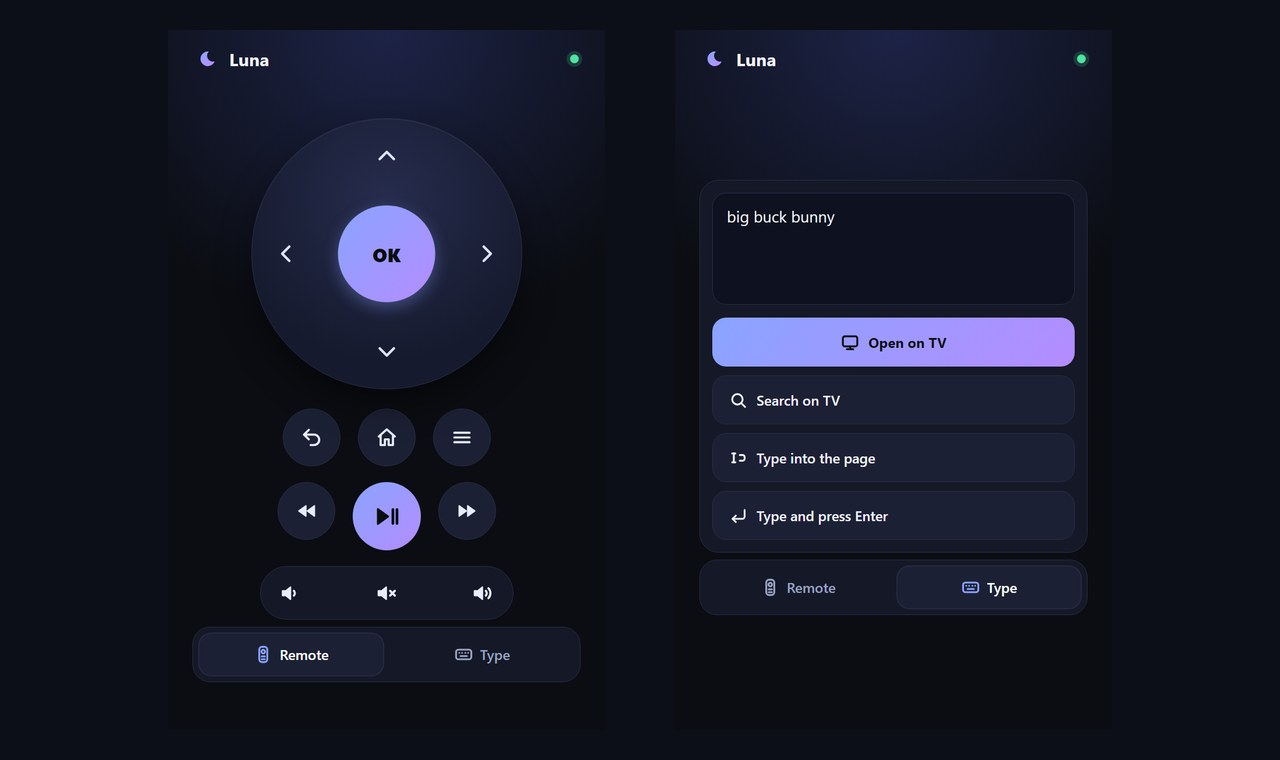
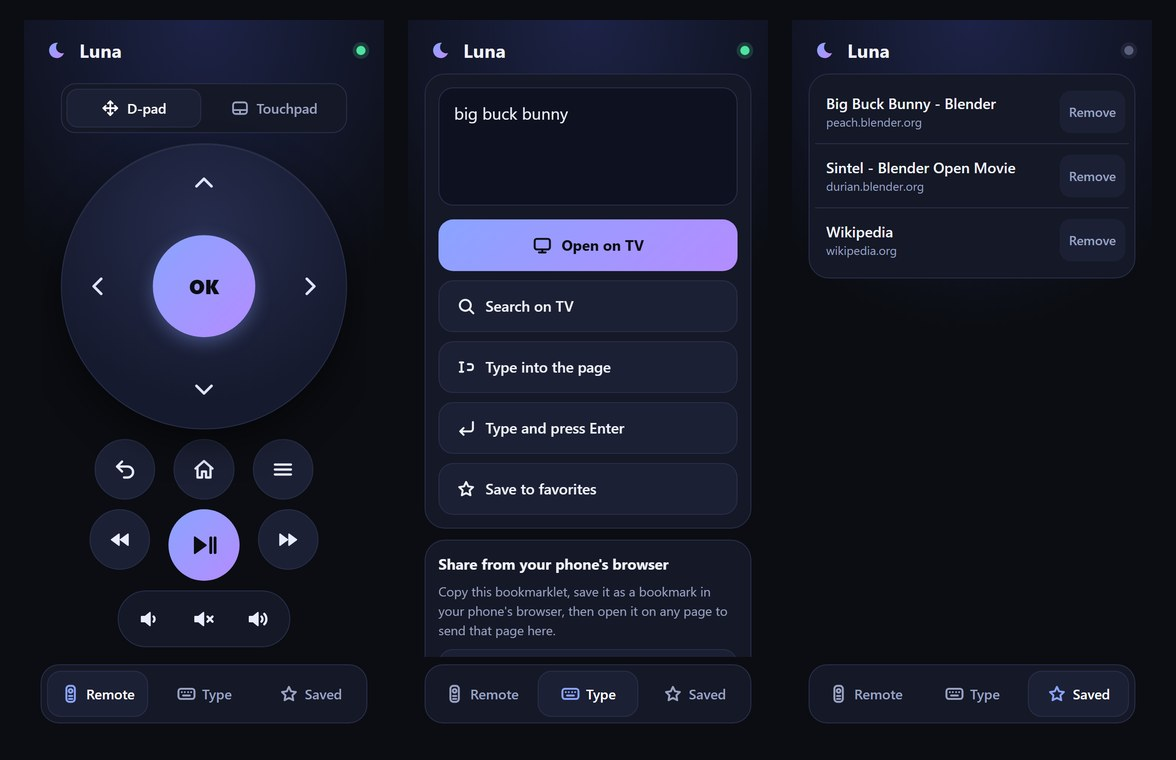
README screenshots: phone page (fitted, three tabs) and Settings with the Theme row

diff --git a/README.md b/README.md
@@ -110,7 +110,7 @@ an on-screen pointer you steer with the D-pad, one-press access to everything, v
 Scan the QR code on the TV (*Settings → Phone remote*): the page opens already paired. **Remote** is the D-pad and keys
 (switch it to **Touchpad** to steer the pointer by dragging), **Type** sends addresses, searches and text.
 
-![The phone page: Remote tab with a D-pad, OK, Back / Home / Menu, media keys and volume; Type tab with the text box and actions](docs/screenshots/11-phone-remote.jpg)
+![The phone page, fitted to the screen without scrolling: Remote tab (D-pad or touchpad, Back / Home / Menu, media keys, volume), Type tab (text box, actions, share bookmarklet) and the Saved favourites tab](docs/screenshots/11-phone-remote.jpg)
 
 ## Install
 
